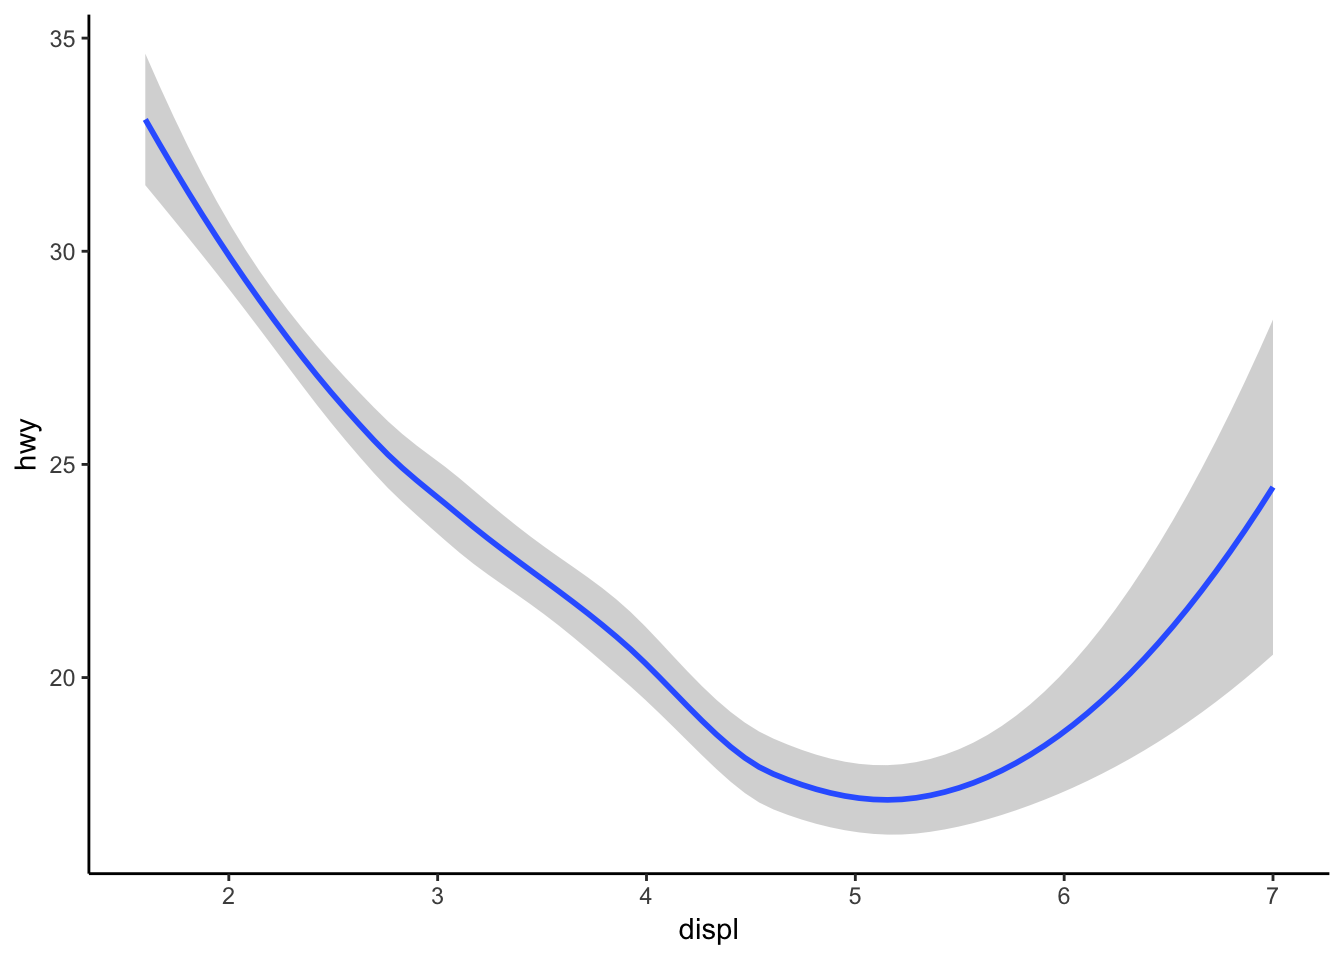
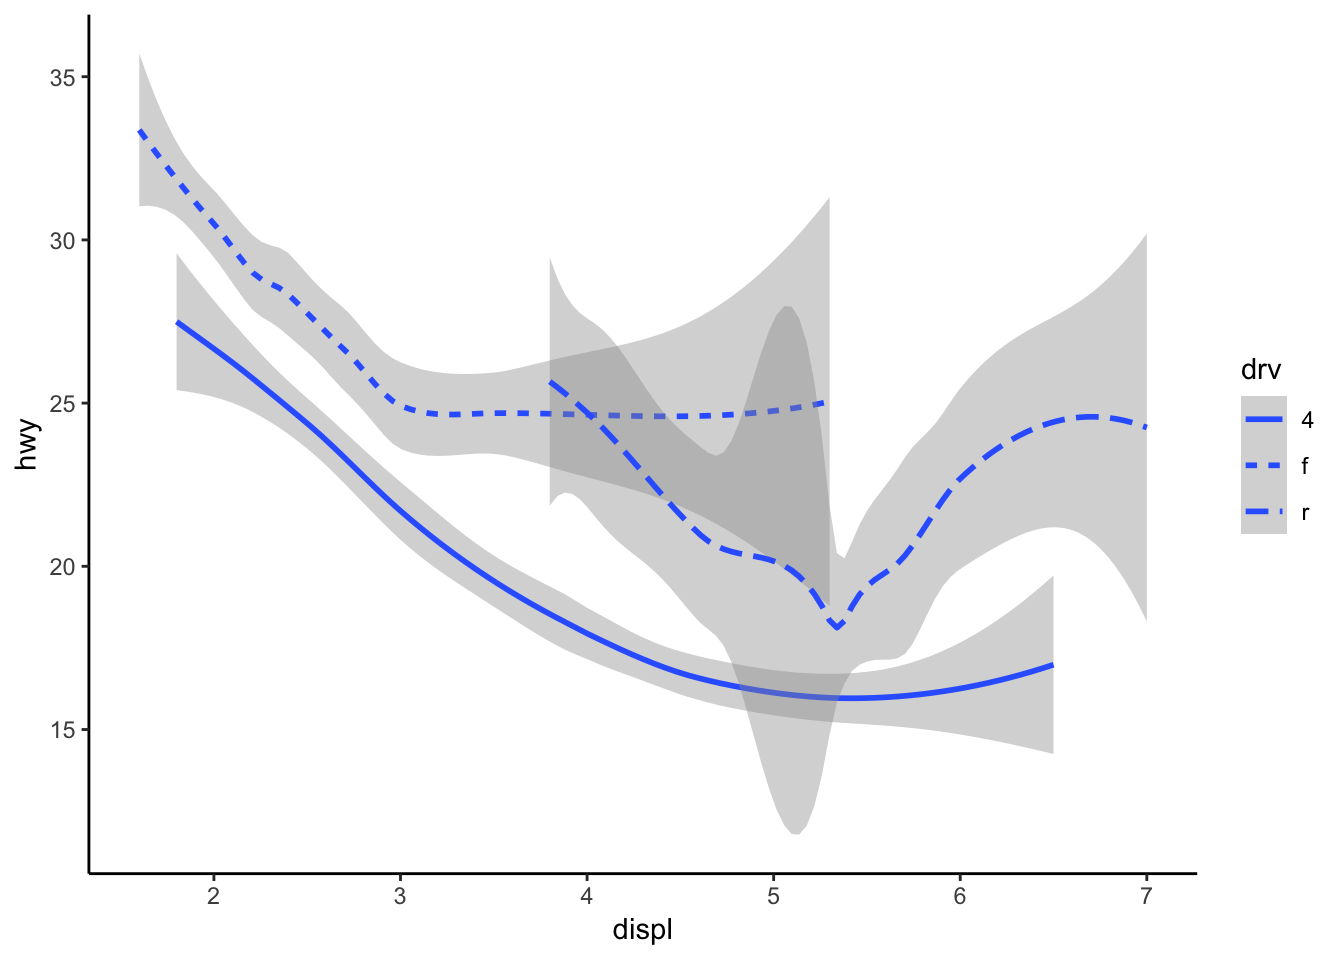
update facet ex L2

diff --git a/docs/Lesson2.html b/docs/Lesson2.html
@@ -521,11 +521,13 @@ div.tocify {
 <li>Do first problem set</li>
 <li>Read in data file<br />
 </li>
-<li>Set working directory <code>here</code><br />
+<li>Plotting facets<br />
 </li>
-<li>Facets</li>
+<li>Plotting curves<br />
+</li>
+<li>Combining plot types<br />
+ </li>
 </ul>
-<p> </p>
 </div>
 <div id="do-first-problem-set" class="section level1">
 <h1>Do First problem set</h1>
@@ -540,10 +542,9 @@ div.tocify {
 <h1>Some useful shortkeys for making <code>R</code> life easier</h1>
 <p><code>TAB</code> = autofill rest of function/global variable<br />
 <code>CTRL + ENTER</code> = run code<br />
-<code>ALT (OPTION) + -</code> = insert assign operator <code>&lt;-</code><br />
+<code>ALT + minus sign</code> = insert assign operator <code>&lt;-</code><br />
 <code>CTRL + SHIFT + M</code> = insert pipe <code>%&gt;%</code><br />
-<strong>Run <code>ALT + SHIFT + K</code> for <a href="https://support.rstudio.com/hc/en-us/articles/200711853-Keyboard-Shortcuts">all available shortkeys</a></strong><br />
- </p>
+<strong>Run <code>ALT + SHIFT + K</code> for <a href="https://support.rstudio.com/hc/en-us/articles/200711853-Keyboard-Shortcuts">all available shortkeys</a></strong>  </p>
 </div>
 <div id="read-in-data" class="section level1">
 <h1>Read in data</h1>
@@ -578,6 +579,13 @@ When you know the two variables you want to plot<br />
 <strong>The formula structure for <code>facet_grid</code> is Y variable <code>~</code> X variable, e.g. <code>drv ~ cyl</code></strong></p>
 <div class="sourceCode"><pre class="sourceCode r"><code class="sourceCode r"><span class="kw">ggplot</span>(<span class="dt">data =</span> my_data) <span class="op">+</span><span class="st"> </span><span class="kw">geom_point</span>(<span class="dt">mapping =</span> <span class="kw">aes</span>(<span class="dt">x =</span> displ, <span class="dt">y =</span> hwy)) <span class="op">+</span><span class="st"> </span><span class="kw">facet_grid</span>(drv <span class="op">~</span><span class="st"> </span>cyl) <span class="op">+</span><span class="st"> </span>my_theme</code></pre></div>
 <p><img src="Lesson2_files/figure-html/unnamed-chunk-7-1.png" width="672" /></p>
+<p>You can also replace the X or Y argument in <code>facet_grid</code> with a period (“.”) to plot only one variable.</p>
+<div class="sourceCode"><pre class="sourceCode r"><code class="sourceCode r"><span class="co"># Y var</span>
+<span class="kw">ggplot</span>(<span class="dt">data =</span> my_data) <span class="op">+</span><span class="st"> </span><span class="kw">geom_point</span>(<span class="dt">mapping =</span> <span class="kw">aes</span>(<span class="dt">x =</span> displ, <span class="dt">y =</span> hwy)) <span class="op">+</span><span class="st"> </span><span class="kw">facet_grid</span>(. <span class="op">~</span><span class="st"> </span>cyl) <span class="op">+</span><span class="st"> </span>my_theme</code></pre></div>
+<p><img src="Lesson2_files/figure-html/unnamed-chunk-8-1.png" width="672" /></p>
+<div class="sourceCode"><pre class="sourceCode r"><code class="sourceCode r"><span class="co"># X var</span>
+<span class="kw">ggplot</span>(<span class="dt">data =</span> my_data) <span class="op">+</span><span class="st"> </span><span class="kw">geom_point</span>(<span class="dt">mapping =</span> <span class="kw">aes</span>(<span class="dt">x =</span> displ, <span class="dt">y =</span> hwy)) <span class="op">+</span><span class="st"> </span><span class="kw">facet_grid</span>(drv <span class="op">~</span><span class="st"> </span>.) <span class="op">+</span><span class="st"> </span>my_theme</code></pre></div>
+<p><img src="Lesson2_files/figure-html/unnamed-chunk-8-2.png" width="672" /></p>
 </div>
 <div id="exercise-3.5.1" class="section level1">
 <h1>Exercise 3.5.1</h1>
@@ -588,28 +596,28 @@ When you know the two variables you want to plot<br />
 <p>Plotting points (<code>geom_point</code>) or lines (<code>geom_smooth</code>)</p>
 <div class="sourceCode"><pre class="sourceCode r"><code class="sourceCode r"><span class="co"># left</span>
 <span class="kw">ggplot</span>(<span class="dt">data =</span> my_data) <span class="op">+</span><span class="st"> </span><span class="kw">geom_point</span>(<span class="dt">mapping =</span> <span class="kw">aes</span>(<span class="dt">x =</span> displ, <span class="dt">y =</span> hwy)) <span class="op">+</span><span class="st"> </span>my_theme</code></pre></div>
-<p><img src="Lesson2_files/figure-html/unnamed-chunk-8-1.png" width="672" /></p>
+<p><img src="Lesson2_files/figure-html/unnamed-chunk-9-1.png" width="672" /></p>
 <div class="sourceCode"><pre class="sourceCode r"><code class="sourceCode r"><span class="co"># right</span>
 <span class="kw">ggplot</span>(<span class="dt">data =</span> my_data) <span class="op">+</span><span class="st"> </span><span class="kw">geom_smooth</span>(<span class="dt">mapping =</span> <span class="kw">aes</span>(<span class="dt">x =</span> displ, <span class="dt">y =</span> hwy)) <span class="op">+</span><span class="st"> </span>my_theme</code></pre></div>
-<p><img src="Lesson2_files/figure-html/unnamed-chunk-8-2.png" width="672" /></p>
+<p><img src="Lesson2_files/figure-html/unnamed-chunk-9-2.png" width="672" /></p>
 </div>
 <div id="linetype" class="section level1">
 <h1>Linetype</h1>
 <p>Grouping by linetype</p>
 <div class="sourceCode"><pre class="sourceCode r"><code class="sourceCode r"><span class="kw">ggplot</span>(<span class="dt">data =</span> my_data) <span class="op">+</span><span class="st"> </span><span class="kw">geom_smooth</span>(<span class="dt">mapping =</span> <span class="kw">aes</span>(<span class="dt">x =</span> displ, <span class="dt">y =</span> hwy, <span class="dt">linetype =</span> drv)) <span class="op">+</span><span class="st"> </span>my_theme</code></pre></div>
-<p><img src="Lesson2_files/figure-html/unnamed-chunk-9-1.png" width="672" /></p>
+<p><img src="Lesson2_files/figure-html/unnamed-chunk-10-1.png" width="672" /></p>
 </div>
 <div id="group-vs.colour" class="section level1">
 <h1>Group vs. colour</h1>
 <p>Using <code>group</code> separates the data into objects …</p>
 <div class="sourceCode"><pre class="sourceCode r"><code class="sourceCode r"><span class="kw">ggplot</span>(<span class="dt">data =</span> my_data) <span class="op">+</span><span class="st"> </span><span class="kw">geom_smooth</span>(<span class="dt">mapping =</span> <span class="kw">aes</span>(<span class="dt">x =</span> displ, <span class="dt">y =</span> hwy)) <span class="op">+</span><span class="st"> </span>my_theme</code></pre></div>
-<p><img src="Lesson2_files/figure-html/unnamed-chunk-10-1.png" width="672" /></p>
+<p><img src="Lesson2_files/figure-html/unnamed-chunk-11-1.png" width="672" /></p>
 <div class="sourceCode"><pre class="sourceCode r"><code class="sourceCode r"><span class="kw">ggplot</span>(<span class="dt">data =</span> my_data) <span class="op">+</span><span class="st"> </span><span class="kw">geom_smooth</span>(<span class="dt">mapping =</span> <span class="kw">aes</span>(<span class="dt">x =</span> displ, <span class="dt">y =</span> hwy, <span class="dt">group =</span> drv)) <span class="op">+</span><span class="st"> </span>my_theme</code></pre></div>
-<p><img src="Lesson2_files/figure-html/unnamed-chunk-10-2.png" width="672" />  </p>
+<p><img src="Lesson2_files/figure-html/unnamed-chunk-11-2.png" width="672" />  </p>
 <p>… but <code>colour</code> will distinguish the differences among these objects</p>
 <div class="sourceCode"><pre class="sourceCode r"><code class="sourceCode r"><span class="kw">ggplot</span>(<span class="dt">data =</span> my_data) <span class="op">+</span><span class="st"> </span><span class="kw">geom_smooth</span>(<span class="dt">mapping =</span> <span class="kw">aes</span>(<span class="dt">x =</span> displ, <span class="dt">y =</span> hwy, <span class="dt">colour =</span> drv), <span class="dt">show.legend =</span> <span class="ot">FALSE</span>) <span class="op">+</span><span class="st"> </span>
 <span class="st">    </span>my_theme</code></pre></div>
-<p><img src="Lesson2_files/figure-html/unnamed-chunk-11-1.png" width="672" /></p>
+<p><img src="Lesson2_files/figure-html/unnamed-chunk-12-1.png" width="672" /></p>
 </div>
 <div id="geometric-objects" class="section level1">
 <h1>Geometric objects</h1>
@@ -619,23 +627,23 @@ When you know the two variables you want to plot<br />
 <p>Possibly the most useful part of plotting data is layering plot types</p>
 <div class="sourceCode"><pre class="sourceCode r"><code class="sourceCode r"><span class="kw">ggplot</span>(<span class="dt">data =</span> my_data) <span class="op">+</span><span class="st"> </span><span class="kw">geom_point</span>(<span class="dt">mapping =</span> <span class="kw">aes</span>(<span class="dt">x =</span> displ, <span class="dt">y =</span> hwy)) <span class="op">+</span><span class="st"> </span><span class="kw">geom_smooth</span>(<span class="dt">mapping =</span> <span class="kw">aes</span>(<span class="dt">x =</span> displ, 
     <span class="dt">y =</span> hwy)) <span class="op">+</span><span class="st"> </span>my_theme</code></pre></div>
-<p><img src="Lesson2_files/figure-html/unnamed-chunk-12-1.png" width="672" /></p>
+<p><img src="Lesson2_files/figure-html/unnamed-chunk-13-1.png" width="672" /></p>
 <div class="sourceCode"><pre class="sourceCode r"><code class="sourceCode r"><span class="co"># condensing code</span>
 <span class="kw">ggplot</span>(<span class="dt">data =</span> my_data, <span class="dt">mapping =</span> <span class="kw">aes</span>(<span class="dt">x =</span> displ, <span class="dt">y =</span> hwy)) <span class="op">+</span><span class="st"> </span><span class="kw">geom_point</span>() <span class="op">+</span><span class="st"> </span><span class="kw">geom_smooth</span>() <span class="op">+</span><span class="st"> </span>my_theme</code></pre></div>
-<p><img src="Lesson2_files/figure-html/unnamed-chunk-12-2.png" width="672" /></p>
+<p><img src="Lesson2_files/figure-html/unnamed-chunk-13-2.png" width="672" /></p>
 <div class="sourceCode"><pre class="sourceCode r"><code class="sourceCode r"><span class="co"># adding aes</span>
 <span class="kw">ggplot</span>(<span class="dt">data =</span> my_data, <span class="dt">mapping =</span> <span class="kw">aes</span>(<span class="dt">x =</span> displ, <span class="dt">y =</span> hwy)) <span class="op">+</span><span class="st"> </span><span class="kw">geom_point</span>(<span class="dt">colour =</span> <span class="st">&quot;steel blue&quot;</span>) <span class="op">+</span><span class="st"> </span><span class="kw">geom_smooth</span>(<span class="dt">colour =</span> <span class="st">&quot;#C6BDEA&quot;</span>, 
     <span class="dt">fill =</span> <span class="st">&quot;#C6BDEA&quot;</span>) <span class="op">+</span><span class="st"> </span>my_theme</code></pre></div>
-<p><img src="Lesson2_files/figure-html/unnamed-chunk-12-3.png" width="672" />  </p>
+<p><img src="Lesson2_files/figure-html/unnamed-chunk-13-3.png" width="672" />  </p>
 <p>But why does this throw an error?</p>
 <div class="sourceCode"><pre class="sourceCode r"><code class="sourceCode r"><span class="co"># adding aes</span>
 <span class="kw">ggplot</span>(<span class="dt">data =</span> my_data) <span class="op">+</span><span class="st"> </span><span class="kw">geom_point</span>(<span class="dt">mapping =</span> <span class="kw">aes</span>(<span class="dt">x =</span> displ, <span class="dt">y =</span> hwy)) <span class="op">+</span><span class="st"> </span><span class="kw">geom_smooth</span>() <span class="op">+</span><span class="st"> </span>my_theme</code></pre></div>
 <pre><code>Error: stat_smooth requires the following missing aesthetics: x, y</code></pre>
-<p><img src="Lesson2_files/figure-html/unnamed-chunk-13-1.png" width="672" /></p>
+<p><img src="Lesson2_files/figure-html/unnamed-chunk-14-1.png" width="672" /></p>
 <p>Specifying layers</p>
 <div class="sourceCode"><pre class="sourceCode r"><code class="sourceCode r"><span class="kw">ggplot</span>(<span class="dt">data =</span> my_data, <span class="dt">mapping =</span> <span class="kw">aes</span>(<span class="dt">x =</span> displ, <span class="dt">y =</span> hwy)) <span class="op">+</span><span class="st"> </span><span class="kw">geom_point</span>(<span class="dt">mapping =</span> <span class="kw">aes</span>(<span class="dt">color =</span> class)) <span class="op">+</span><span class="st"> </span>
 <span class="st">    </span><span class="kw">geom_smooth</span>() <span class="op">+</span><span class="st"> </span>my_theme</code></pre></div>
-<p><img src="Lesson2_files/figure-html/unnamed-chunk-14-1.png" width="672" /></p>
+<p><img src="Lesson2_files/figure-html/unnamed-chunk-15-1.png" width="672" /></p>
 <p> </p>
 <p>Applying different datasets to one plot (overriding data)</p>
 <div class="sourceCode"><pre class="sourceCode r"><code class="sourceCode r"><span class="kw">require</span>(dplyr)
@@ -649,7 +657,7 @@ my_data_subcompact &lt;-<span class="st">  </span><span class="kw">filter</span>
 <span class="st">  </span><span class="kw">geom_point</span>(<span class="dt">mapping =</span> <span class="kw">aes</span>(<span class="dt">color =</span> class)) <span class="op">+</span><span class="st"> </span><span class="co"># original data</span>
 <span class="st">  </span><span class="kw">geom_smooth</span>(<span class="dt">data =</span> my_data_subcompact, <span class="dt">se =</span> <span class="ot">FALSE</span>) <span class="op">+</span><span class="st"> </span><span class="co"># filtered data </span>
 <span class="st">  </span>my_theme</code></pre></div>
-<p><img src="Lesson2_files/figure-html/unnamed-chunk-15-1.png" width="672" />  </p>
+<p><img src="Lesson2_files/figure-html/unnamed-chunk-16-1.png" width="672" />  </p>
 </div>
 <div id="exercise-3.6.1" class="section level1">
 <h1>Exercise 3.6.1</h1>
